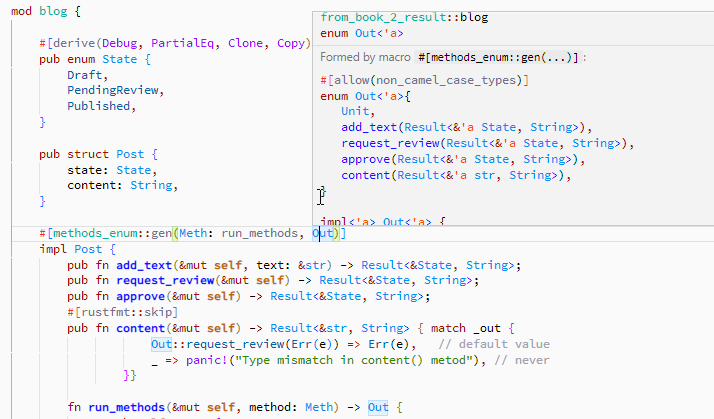
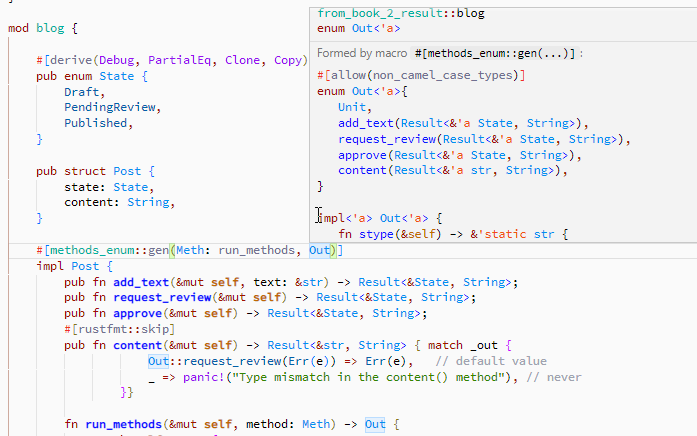
Fixed grammatical typo

Changed region(s): [[0.0, 0.0, 1.0, 1.0], [0.0904, 0.9308, 0.5725, 1.0]]

diff --git a/src/lib.rs b/src/lib.rs
@@ -263,9 +263,9 @@ pub fn gen(attr_ts: TokenStream, item_ts: TokenStream) -> TokenStream {
 
     let is_result = attr.out_ident.is_none() && outs.iter().any(|t| t.1.contains("Result<"));
     let self_run_enum = format!("self.{}({}::", attr.run_method, attr.enum_name);
-    let mut metods_ts = TokenStream::new();
+    let mut methods_ts = TokenStream::new();
     for m in methods {
-        metods_ts.extend(m.prev_ts);
+        methods_ts.extend(m.prev_ts);
         if let Some(ident) = m.ident {
             enum_doc.push_str(&format!("\n{}fn {ident}({})", m.pub_s, ts_to_doc(&m.args)));
             let mut body_ts = TokenStream::new();
@@ -308,7 +308,7 @@ pub fn gen(attr_ts: TokenStream, item_ts: TokenStream) -> TokenStream {
                     TokenStream::from_str(&format!("{lside} => x, {varname} => ")).unwrap();
                 if m.default.is_empty() {
                     let panic_s = format!(
-                        "panic!(\"Type mismatch in {ident}() metod:
+                        "panic!(\"Type mismatch in the {ident}() method:
                     expected- {},
                     found- {out_enum}{{}}\", {varname}.stype())",
                         lside
@@ -329,11 +329,11 @@ pub fn gen(attr_ts: TokenStream, item_ts: TokenStream) -> TokenStream {
                 body_ts.extend([Group(proc_macro::Group::new(Brace, match_ts))]);
             }
             enum_doc.push_str("\n}");
-            metods_ts.extend([Group(proc_macro::Group::new(Brace, body_ts))]);
+            methods_ts.extend([Group(proc_macro::Group::new(Brace, body_ts))]);
         }
     }
-    metods_ts.extend(block_it);
-    item_ts.extend([Group(proc_macro::Group::new(Brace, metods_ts))]);
+    methods_ts.extend(block_it);
+    item_ts.extend([Group(proc_macro::Group::new(Brace, methods_ts))]);
 
     let mut res_ts = TokenStream::from_str(&format!(
         "{}{}{lftm}{{{}\n```\"] enum ",

diff --git a/tests/from_book-2_result.rs b/tests/from_book-2_result.rs
@@ -43,7 +43,7 @@ mod blog {
         #[rustfmt::skip]
         pub fn content(&mut self) -> Result<&str, String> { match _out {
                     Out::request_review(Err(e)) => Err(e),   // default value
-                    _ => panic!("Type mismatch in content() metod"), // never
+                    _ => panic!("Type mismatch in the content() method"), // never
                 }}
 
         fn run_methods(&mut self, method: Meth) -> Out {

diff --git a/README.md b/README.md
@@ -462,7 +462,7 @@ mod blog {
         #[rustfmt::skip]
         pub fn content(&mut self) -> Result<&str, String> { match _out {
                     Out::request_review(Err(e)) => Err(e),   // default value
-                    _ => panic!("Type mismatch in content() metod"), // never
+                    _ => panic!("Type mismatch in the content() method"), // never
                 }}
 // . . .
 #       fn run_methods(&mut self, method: Meth) -> Out {
